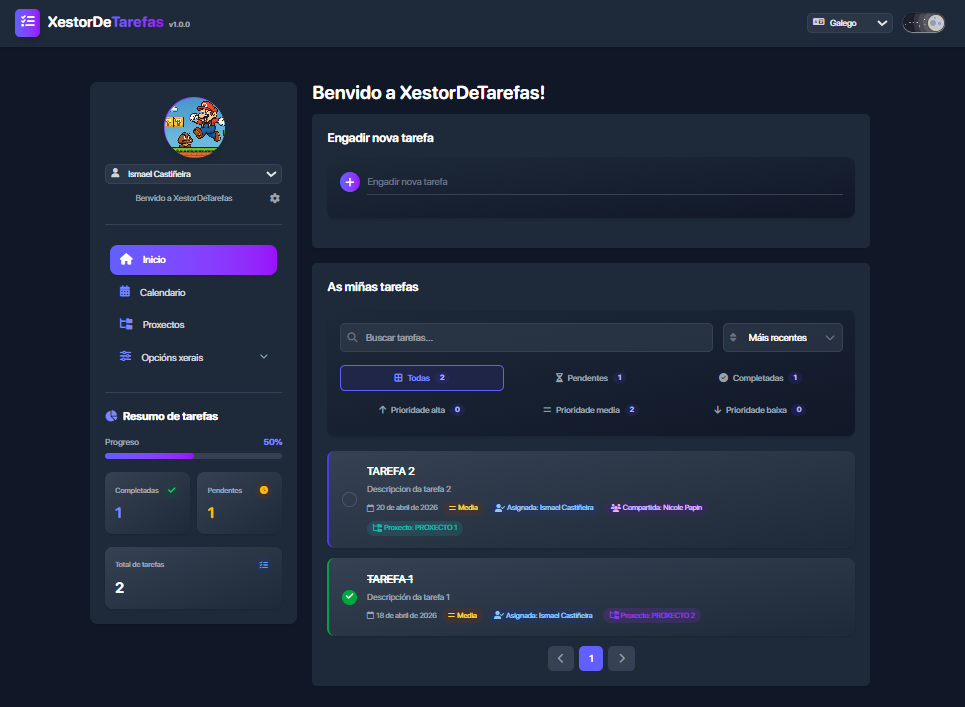
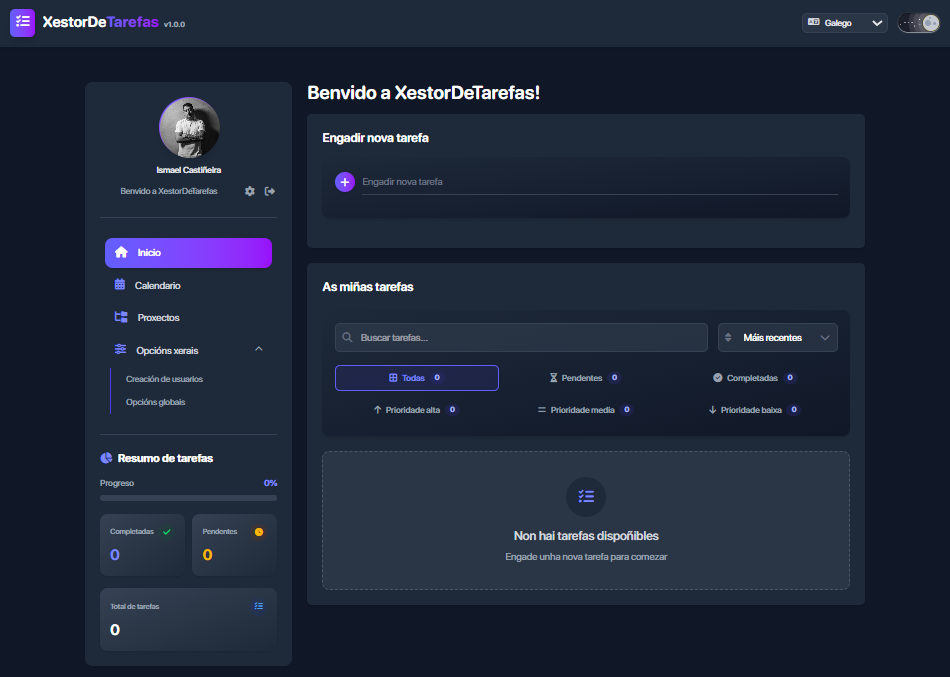
README: repositorios da web e da app Android

diff --git a/README.md b/README.md
@@ -2,6 +2,11 @@
 
 Aplicación de xestión persoal de tarefas e proxectos feita con React + Redux Toolkit + Vite.
 
+## Repositorios
+
+- Web (este repo): [IPardelo/xestor-de-tarefas-web](https://github.com/IPardelo/xestor-de-tarefas-web)
+- Android: [IPardelo/xestor-de-tarefas-app](https://github.com/IPardelo/xestor-de-tarefas-app)
+
 Inclúe multiusuario local, proxectos, calendario, internacionalización (`gl`/`es`/`en`), tema claro/escuro e lectura de credenciais KDBX de proxectos.
 
 ![XestorDeTarefas Screenshot](public/Images/Interfaz.png)
